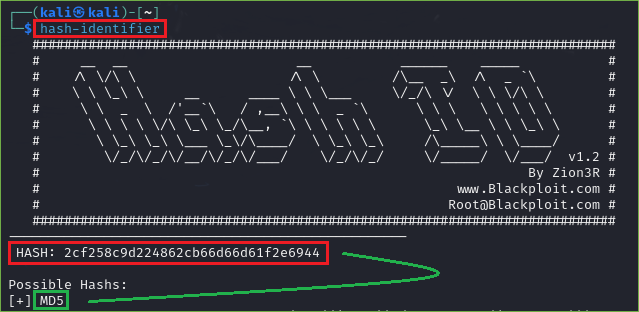
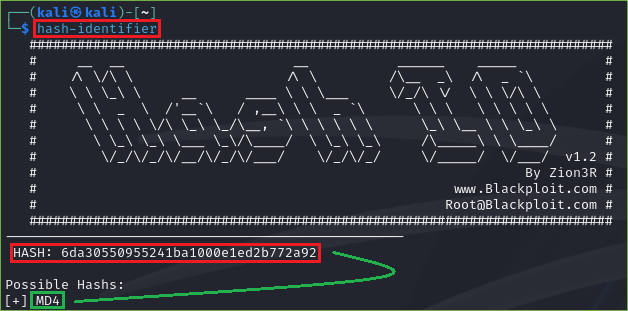
Fix MD5 to MD4

diff --git a/_posts/2024-10-08-forensic-analysis-mitre-attack-4.md b/_posts/2024-10-08-forensic-analysis-mitre-attack-4.md
@@ -27,6 +27,7 @@ Techniques used to get credentials include keylogging or credential dumping.
 <a href="/images/2024-10-08-forensic-analysis-mitre-attack-4/image1.png" rel="nofollow noopener noreferrer" target="_blank">
 <img src="/images/2024-10-08-forensic-analysis-mitre-attack-4/image1.png">
 </a>
+
 *Figure 1. Credential Access Techniques*
 
 This example will show technique, [**T1003 OS Credential Dumping**](https://attack.mitre.org/techniques/T1003/), 
@@ -41,17 +42,20 @@ The Active Directory database is stored in a single **NTDS.dit** file which is s
 and other object attributes.  
 
 ![Location of the NTDS.dit file](/images/2024-10-08-forensic-analysis-mitre-attack-4/image2.png)
+
 *Figure 2. Location of the NTDS.dit file*
 
 The **NTDS.dit** file is logically separated into the following partitions:
 
 ![NTDS.dit Partitions](/images/2024-10-08-forensic-analysis-mitre-attack-4/image3.png)
+
 *Figure 3. NTDS.dit Partitions*
 
 Adversaries use various tools and techniques to enumerate the *NTDS* file and the contents of the entire Active Directory hashes. 
 In the picture below are some of them.
 
 ![Exfiltration & Parsing tools](/images/2024-10-08-forensic-analysis-mitre-attack-4/image4.png)
+
 *Figure 4. Exfiltration & Parsing tools*
 
 In this example an adversary uses the **wbadmin** utility to create a backup of **NTDS.dit** file. The **wbadmin** utility is a command 
@@ -66,51 +70,61 @@ That can be accomplished using the *Server Manager* or *PowerShell* command *Ins
 In this case, according to the evidence, an adversary opened the *PowerShell* a few minutes before running a **wbadmin** utility. 
 
 ![PowerShell Opened - $MFT](/images/2024-10-08-forensic-analysis-mitre-attack-4/image5.png)
+
 *Figure 5. PowerShell Opened - $MFT*
 
 ![PowerShell Started – Microsoft-Windows-PowerShell.evtx](/images/2024-10-08-forensic-analysis-mitre-attack-4/image6.png)
+
 *Figure 6. PowerShell Started – Microsoft-Windows-PowerShell.evtx*
 
 That’s mean that an adversary executed a *PowerShell* command to install that component. This is proven by the *Windows Server Backup.xml* 
 file which was created after that.
 
 ![Windows-Server-Backup.xml Created - $MFT](/images/2024-10-08-forensic-analysis-mitre-attack-4/image7.png)
+
 *Figure 7. Windows-Server-Backup.xml Created - $MFT*
 
 After that an adversary executed the **wbadmin** utility and the evidence shows that the backup process is started.
 
 ![wbadmin Executed - $MFT](/images/2024-10-08-forensic-analysis-mitre-attack-4/image8.png)
+
 *Figure 8. wbadmin Executed - $MFT*
 
 ![Backup Started – Microsoft-Windows-Backup.evtx](/images/2024-10-08-forensic-analysis-mitre-attack-4/image9.png)
+
 *Figure 9. Backup Started – Microsoft-Windows-Backup.evtx*
 
 After some time, the log *Backup-03-11-2023_14-36-07.log* was created. That log shows what an adversary was copied. 
 In the picture below, we see that an adversary created backup of the **NTDS.dit** and **SYSTEM** files.
 
 ![Backup NTDS.dit and SYSTEM files](/images/2024-10-08-forensic-analysis-mitre-attack-4/image10.png)
+
 *Figure 10. Backup “NTDS.dit” and “SYSTEM” files*
 
 Finally, the backup was created in the form of Microsoft's Virtual Hard Disk (*.vhdx*) file with the *.xml* configuration files. 
 The **wbadmin** utility saves the backup in a **WindowsImageBackup** folder on the target drive.
 
 ![Backup Created – .vhdx File](/images/2024-10-08-forensic-analysis-mitre-attack-4/image11.png)
+
 *Figure 11. Backup Created – .vhdx File*
 
 When we looked inside that *.vhdx* file, we found the **NTDS.dit** and **SYSTEM** files.
 
 ![.vhdx Content](/images/2024-10-08-forensic-analysis-mitre-attack-4/image12.png)
+
 *Figure 12. .vhdx Content*
 
 The *BackupSpecs.xml* file contains the backup specification. 
 
 ![Backup Specification](/images/2024-10-08-forensic-analysis-mitre-attack-4/image13.png)
+
 *Figure 13. Backup Specification*
 
 From that backup specification file and the location of the *.vhdx* file, we can conclude that an adversary used the 
 following *wbadmin* command to achieve his goal:
 
 ![wbadmin Command](/images/2024-10-08-forensic-analysis-mitre-attack-4/image14.png)
+
 *Figure 14. wbadmin Command*
 
 **Why does an adversary also copy SYSTEM file?**
@@ -131,14 +145,17 @@ In this blog, we are using *Impacket* Python script **secretsdump.py** to show h
 The command for that is:
 
 ![secretsdump.py Command](/images/2024-10-08-forensic-analysis-mitre-attack-4/image15.png)
+
 *Figure 15. secretsdump.py Command*
 
 ![Command Description](/images/2024-10-08-forensic-analysis-mitre-attack-4/image16.png)
+
 *Figure 16. Command Description*
 
 When we executed that command, the hashes will be extracted. In the picture below we can see formatted *NTLM* hashes for the users.
 
 ![Extracted Hashes](/images/2024-10-08-forensic-analysis-mitre-attack-4/image17.png)
+
 *Figure 17. Extracted Hashes*
 
 Now, an attacker can use cracking tool like **Hashcat** or **John the Ripper** to crack the hashes and obtain the plaintext 
@@ -148,22 +165,26 @@ In this blog, we are using **Hashcat** tool inside the *Kali Linux* distribution
 hashes, we need to know what type of hash we are dealing with. Common hashes include *MD5*, *SHA1*, *SHA256*, etc. 
 
 In this example, we are using the **hash-identifier** tool to identify the hash. In the picture below we can see that the hash that
-we want to crack is *MD5*.
+we want to crack is *MD4*.
 
 ![hash-identifier Tool](/images/2024-10-08-forensic-analysis-mitre-attack-4/image18.png)
+
 *Figure 18. hash-identifier Tool*
 
 Now we can execute the Hashcat command using dictionary mode, and the cracking will begin.
 
 ![Hashcat Command](/images/2024-10-08-forensic-analysis-mitre-attack-4/image19.png)
+
 *Figure 19. Hashcat” Command*
 
 ![Command Description](/images/2024-10-08-forensic-analysis-mitre-attack-4/image20.png)
+
 *Figure 20. Command Description*
 
 In the picture below we can see that the password after cracking the hash is **FreedomForAll**.
 
 ![Hash Cracked](/images/2024-10-08-forensic-analysis-mitre-attack-4/image21.png)
+
 *Figure 21. Hash Cracked*
 
 **Conclusion**
